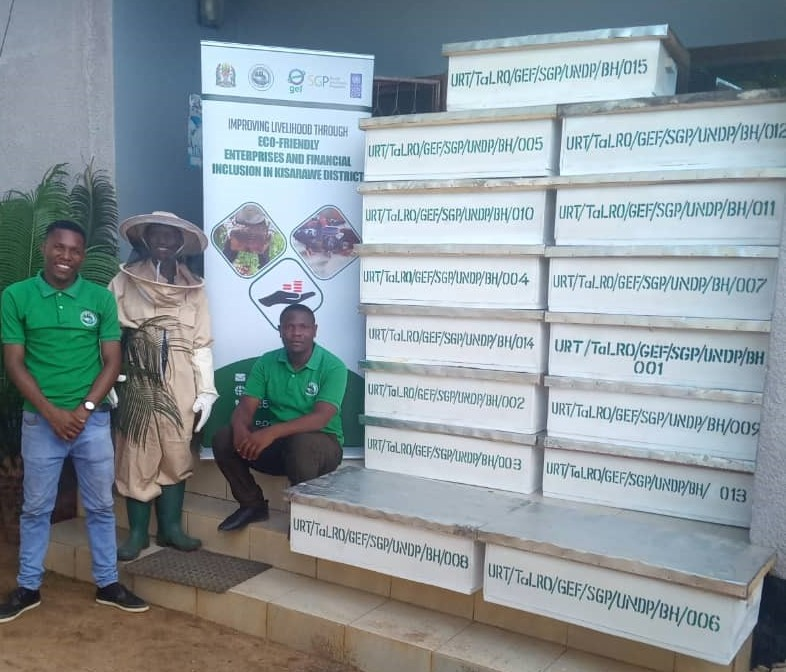
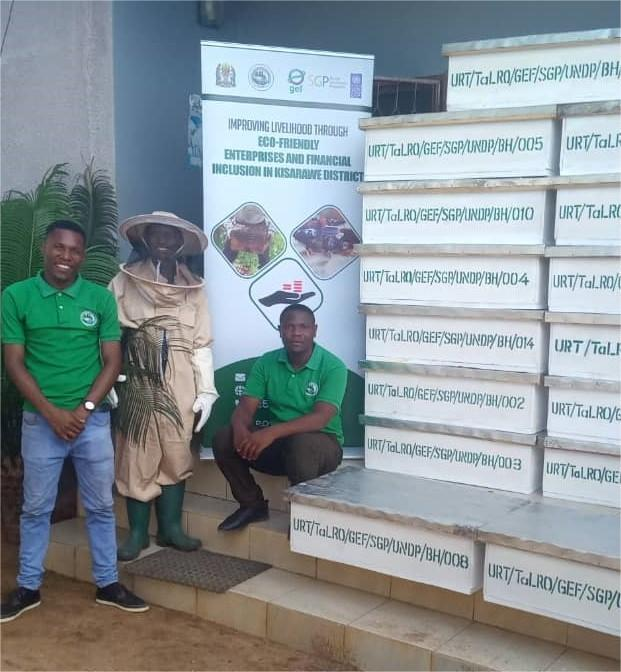
Update climate change image and enhance project card styles for better presentation

diff --git a/projects.html b/projects.html
@@ -374,7 +374,7 @@
                   </a>
                   <div class="cs_card_info">
                     <p class="cs_mb_4">Beekeeping</p>
-                    <h3 class="cs_card_title mb-0 cs_fs_21 cs_semibold">Establishing and managing apiary in Kisarawe District<br><br><br></h3>
+                    <h3 class="cs_card_title mb-0 cs_fs_21 cs_semibold">Establishing and managing apiary in Kisarawe District<br><br><br></h3><br>
                     <a href="project 1.html" class="cs_btn cs_style_2 cs_heading_color">
                     Learn More
                     <i>
@@ -396,7 +396,7 @@
                   </a>
                   <div class="cs_card_info">
                     <p class="cs_mb_4">Restoration</p>
-                    <h3 class="cs_card_title mb-0 cs_fs_21 cs_semibold">Restoring and managing native trees in coastal forests and mangroves<br></h3><br>
+                    <h3 class="cs_card_title mb-0 cs_fs_21 cs_semibold">Restoring and managing native trees in coastal forests and mangroves<br></h3><br><br>
                     <a href="project 2.html" class="cs_btn cs_style_2 cs_heading_color">
                     Learn More
                     <i>
@@ -484,7 +484,7 @@
                   </a>
                   <div class="cs_card_info">
                     <p class="cs_mb_4">Human-Wildlife Coexistence</p>
-                    <h3 class="cs_card_title mb-0 cs_fs_21 cs_semibold">Supporting human-wildlife coexistence through eco-friendly enterprises<br><br></h3>
+                    <h3 class="cs_card_title mb-0 cs_fs_21 cs_semibold">Supporting human-wildlife coexistence through eco-friendly enterprises<br><br></h3><br>
                     <a href="project 6.html" class="cs_btn cs_style_2 cs_heading_color">
                     Learn More
                     <i>
@@ -529,6 +529,149 @@
         background-position: center;
         background-repeat: no-repeat;
       }
+
+     .cs_card {
+  border-radius: 16px;
+  overflow: hidden;
+  background: #fff;
+  box-shadow: 0 4px 15px rgba(0, 0, 0, 0.08);
+  transition: transform 0.3s ease, box-shadow 0.3s ease;
+  opacity: 0;
+  transform: translateY(20px);
+  animation: fadeUp 0.6s ease forwards;
+}
+
+.cs_card:hover {
+  transform: translateY(-10px) scale(1.02);
+  box-shadow: 0 12px 30px rgba(0, 0, 0, 0.15);
+}
+
+.cs_card_thumb {
+  position: relative;
+  overflow: hidden;
+  border-radius: 16px 16px 0 0;
+}
+
+.cs_card_thumb img {
+  width: 300px;
+  height: 400px;
+  transition: transform 0.4s ease;
+}
+
+.cs_card_thumb::after {
+  content: "";
+  position: absolute;
+  inset: 0;
+  background: linear-gradient(to top, rgba(0,0,0,0.5), transparent 60%);
+  opacity: 0;
+  transition: opacity 0.3s ease;
+}
+
+.cs_card:hover .cs_card_thumb img {
+  transform: scale(1.05);
+}
+
+.cs_card:hover .cs_card_thumb::after {
+  opacity: 1;
+}
+
+/* Card body text */
+.cs_card_body {
+  padding: 20px;
+}
+
+.cs_card_title {
+  font-size: 1.25rem;
+  font-weight: 600;
+  margin-bottom: 10px;
+}
+
+.cs_card_subtitle {
+  font-size: 0.95rem;
+  color: #555;
+}
+
+/* Buttons */
+.cs_btn {
+  display: inline-flex;
+  align-items: center;
+  gap: 6px;
+  padding: 10px 18px;
+  border-radius: 30px;
+  border: 1px solid #2dbd40;
+  color: #2dbd40;
+  background: transparent;
+  font-weight: 500;
+  transition: all 0.3s ease;
+}
+
+.cs_btn:hover {
+  background: #2dbd40;
+  color: #fff;
+}
+
+.cs_btn i svg {
+  transition: transform 0.3s ease;
+}
+
+.cs_btn:hover i svg {
+  transform: translateX(4px);
+}
+
+/* Slider arrows */
+.cs_slider_arrows .cs_left_arrow,
+.cs_slider_arrows .cs_right_arrow {
+  background: rgba(255, 255, 255, 0.7);
+  backdrop-filter: blur(8px);
+  border-radius: 50%;
+  width: 42px;
+  height: 42px;
+  display: flex;
+  align-items: center;
+  justify-content: center;
+  transition: background 0.3s ease;
+  cursor: pointer;
+}
+
+.cs_slider_arrows .cs_left_arrow:hover,
+.cs_slider_arrows .cs_right_arrow:hover {
+  background: rgba(255, 255, 255, 0.95);
+}
+
+/* Section background with overlay */
+.cs_projects_bg {
+  position: relative;
+  background-attachment: fixed;
+  border-radius: 24px;
+  overflow: hidden;
+}
+
+.cs_projects_bg::before {
+  content: "";
+  position: absolute;
+  inset: 0;
+  background: rgba(0, 0, 0, 0.3);
+  z-index: 0;
+}
+
+/* Fade-up animation */
+@keyframes fadeUp {
+  to {
+    opacity: 1;
+    transform: translateY(0);
+  }
+}
+
+/* Responsive tweaks */
+@media (max-width: 992px) {
+  .cs_card_title { font-size: 1.1rem; }
+  .cs_card_subtitle { font-size: 0.9rem; }
+}
+
+@media (max-width: 768px) {
+  .cs_card_thumb img { height: 300px; object-fit: cover; }
+  .cs_card { border-radius: 12px; }
+}
       </style>
       
     </section>

diff --git a/contact.html b/contact.html
@@ -456,9 +456,9 @@
     </section>
     <!-- End Contact Section -->
     <!-- Start Map Section -->
-    <div class="cs_map">
+    <!-- <div class="cs_map">
       <iframe src="https://www.google.com/maps/embed?pb=!1m18!1m12!1m3!1d656.5555297904392!2d39.07445385337896!3d-6.909985400900019!2m3!1f0!2f0!3f0!3m2!1i1024!2i768!4f13.1!3m3!1m2!1s0x185c397f3ca3f62b%3A0x19ea3ad3e3116808!2sChampion%20Chanzige%20Organization!5e1!3m2!1sen!2stz!4v1751108819609!5m2!1sen!2stz" width="600" height="450" style="border:0;" allowfullscreen="" loading="lazy" referrerpolicy="no-referrer-when-downgrade"></iframe>
-    </div>
+    </div> -->
     <!-- End Map Section -->
     <!-- Start Footer Section -->
       <footer class="cs_footer cs_style_1 cs_heading_bg cs_bg_filed" data-src="assets/img/nature/footer_bg.jpg">
